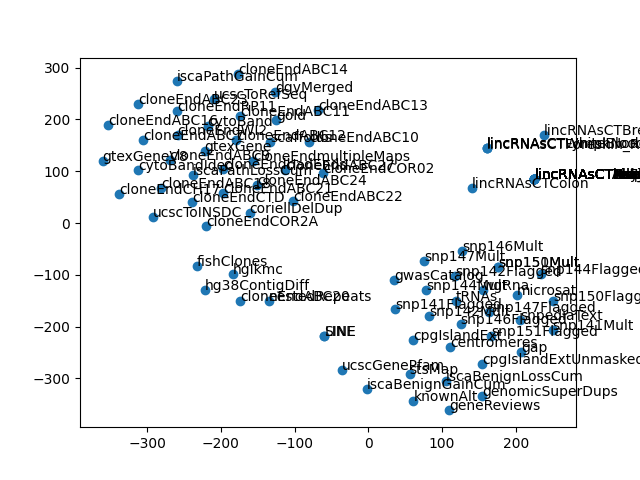
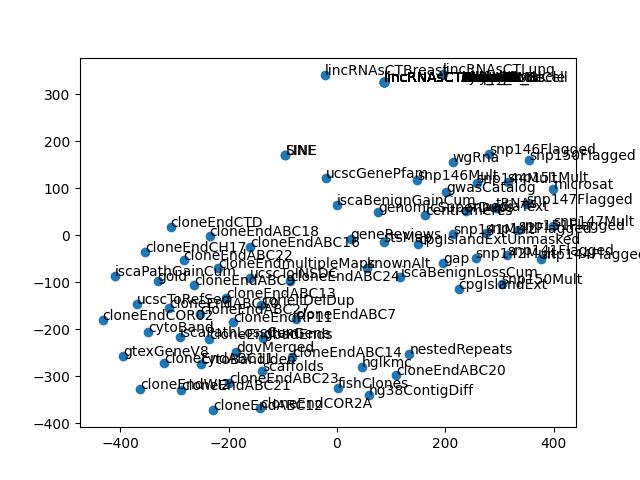
Additional modifications

diff --git a/train_torch.py b/train_torch.py
@@ -47,36 +47,55 @@ class Autoencoder(nn.Module):
     def __init__(self, input_dim):
         super(Autoencoder, self).__init__()
         self.downsample = nn.Sequential(
-            nn.Conv1d(1, 16, kernel_size=100, stride=20, padding=0),
+            nn.Conv1d(1, 16, kernel_size=80, stride=15, padding=0),
             nn.ReLU(),
             nn.Flatten(),
-            nn.Linear( ( get_postconv_dimensionality(input_dim, 0, 100, 20) * 16), 250 ),
+            nn.Linear( ( get_postconv_dimensionality(input_dim, 0, 80, 15) * 16), 256),
             nn.ReLU()
         )
 
-        self.encoder = nn.Sequential(
-            nn.Linear(250, 120),
+        self.encoder_fromconv = nn.Sequential(
+            nn.Linear(256, 128),
             nn.ReLU()
         )
         
-        self.decoder = nn.Sequential(
-            nn.Linear(120, 250),
+        self.decoder_fromconv = nn.Sequential(
+            nn.Linear(128, 256),
             nn.ReLU(), 
         )
-        
+         
         self.upsample = nn.Sequential(
-            nn.Linear( 250, (16 * get_postconv_dimensionality(input_dim, 0, 100, 20) ) ),
+            nn.Linear( 256, (16 * get_postconv_dimensionality(input_dim, 0, 80, 15) ) ),
             nn.ReLU(),
-            nn.Unflatten(1, (16, get_postconv_dimensionality(input_dim, 0, 100, 20))),
-            nn.ConvTranspose1d(16, 1, kernel_size=100, stride=20, padding=0, output_padding=0),
+            nn.Unflatten(1, (16, get_postconv_dimensionality(input_dim, 0, 80, 15))),
+            nn.ConvTranspose1d(16, 1, kernel_size=80, stride=15, padding=0, output_padding=0),
             nn.Sigmoid()
         )
+        
+        # self.encoder = nn.Sequential(
+        #     nn.Linear(input_dim, 256),
+        #     nn.ReLU(),
+        #     nn.Linear(256, 128),
+        #     nn.ReLU()
+        # )
+        # 
+        # self.decoder = nn.Sequential(
+        #     nn.Linear(128, 256),
+        #     nn.ReLU(), 
+        #     nn.Linear(256, input_dim),
+        #     nn.Sigmoid(), 
+        # )
+        
     def forward(self, x):
+        # encoded = self.encoder(x)
+        # decoded = self.decoder(encoded)
+        # final = decoded
         downsampled = self.downsample(x)
-        encoded = self.encoder(downsampled)
-        decoded = self.decoder(encoded)
+        encoded = self.encoder_fromconv(downsampled)
+        decoded = self.decoder_fromconv(encoded)
         upsampled = self.upsample(decoded)
-        return upsampled 
+        final = upsampled
+        return final 
 
 # Training function 
 def train(model, dataloader, epochs=20):
@@ -101,7 +120,7 @@ model = Autoencoder(input_dim)
 model.to(device)
 model = model.float()
 criterion = nn.MSELoss()
-optimizer = optim.Adam(model.parameters(), eps=1e-4)
+optimizer = optim.Adam(model.parameters(), eps=1e-7)
 
 if torch.cuda.device_count() > 1:
     print(f'Using {torch.cuda.device_count()} GPUs')

diff --git a/genemb.py b/genemb.py
@@ -13,10 +13,10 @@ def get_encoded_vals_tf(model_file='./models/encoder.keras', verbose_output=Fals
     lbc = get_labelled_coverage_vectors()
     encoded_vals = {}
     for key, value in lbc.items():
-        print(key)
+        print('kyr', key)
         encoded_vals[ key ] = encoder.predict( np.array( [value] ) )
         if verbose_output:
-            print( encoded_vals[ key ] )
+            print('enck', encoded_vals[ key ] )
     return encoded_vals
 
 
@@ -28,7 +28,7 @@ def get_encoded_vals_torch(model_file='./models/model.pth', verbose_output=False
 
 
     device = torch.device("cuda" if torch.cuda.is_available() else "cpu")
-    map_location = torch.device("cpu")
+    map_location = torch.device("cuda")
 
     # Set print limit to infinity
     np.set_printoptions(threshold=np.inf)
@@ -40,11 +40,11 @@ def get_encoded_vals_torch(model_file='./models/model.pth', verbose_output=False
     lbc = get_labelled_coverage_vectors()
     encoded_vals = {}
     for key, value in lbc.items():
-        print(key)
+        print('key', key)
         data = np.array( [ value ] )
         data = data.astype(np.float32)
         data = torch.tensor(data, device=device).unsqueeze(1)# .to(dtype=torch.float16)
         encoded_vals[ key ] = [ model( data.float() ).detach().cpu().numpy().squeeze() ]
         if verbose_output:
-            print( encoded_vals[ key ] )
+            print('eck', encoded_vals[ key ] )
     return encoded_vals

diff --git a/gencovvec.py b/gencovvec.py
@@ -44,7 +44,7 @@ def get_labelled_coverage_vectors( coverage_vector_path='covvecs' ):
 def coverage_vectors_from_bed(track_path = 'tracks', coverage_vector_path='covvecs'):
     track_path=os.path.join(os.getcwd(), track_path)
     coverage_vector_path = os.path.join(os.getcwd(), coverage_vector_path)
-    print(track_path, coverage_vector_path)
+    print('trcv', track_path, coverage_vector_path)
     
     # Initialize multithreaded operation and read all files located in track_path
     max_workers = os.cpu_count() if os.cpu_count() < 2 else 2
@@ -88,7 +88,7 @@ def create_coverage_vector( feature='', feature_file='', genome="hg38", base='tr
     feature = pybedtools.example_bedtool(os.path.join(os.getcwd(), base , feature_file))
     overlap = windows.coverage(feature)
     coverage_vec = []
-    print(len(overlap))
+    print('overlaplen',len(overlap))
     # for now, we'll omit the final sequences of each chromosome to allow for vectors to retain the same dimensionality
     # later, strategy could either be appending zeros to fill out the remainder of the window, or it could be adjusting 
     # window size to work with everything else, assuming it makes sense computationally + no prime lengths

diff --git a/display.py b/display.py
@@ -61,6 +61,7 @@ if option == options[2]:
         e_v.append( value[0] )
     e_v = np.array( e_v )
     labels = list( encoded_vals.keys() )
+    print('here')
 
     tsne = TSNE(n_components = 3)
     embeddings_3d = tsne.fit_transform( e_v )
@@ -70,4 +71,4 @@ if option == options[2]:
     # Plot with Plotly
     fig = px.scatter_3d(df, x='x', y='y', z='z', text='label')
     fig.update_traces(marker=dict(size=5), selector=dict(mode='markers+text'))
-    fig.show()
+    fig.write_html(os.path.join(os.getcwd(), 'results', 'fig.html'))
